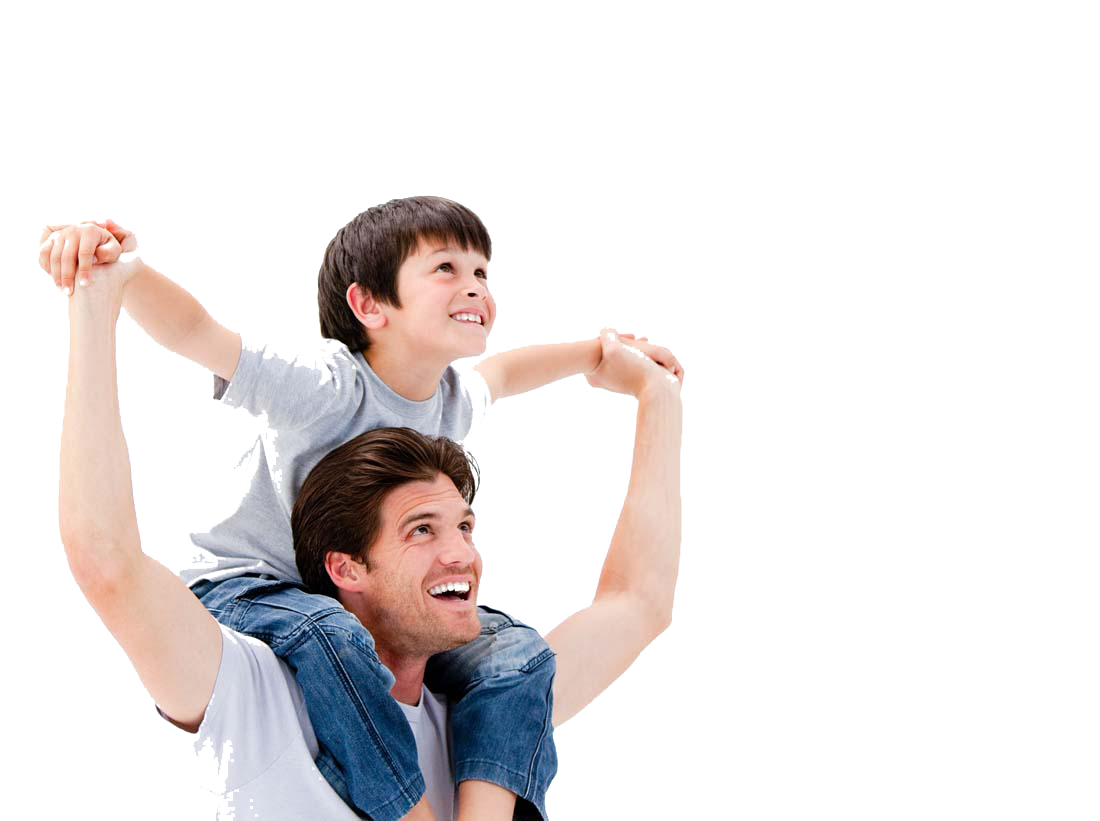
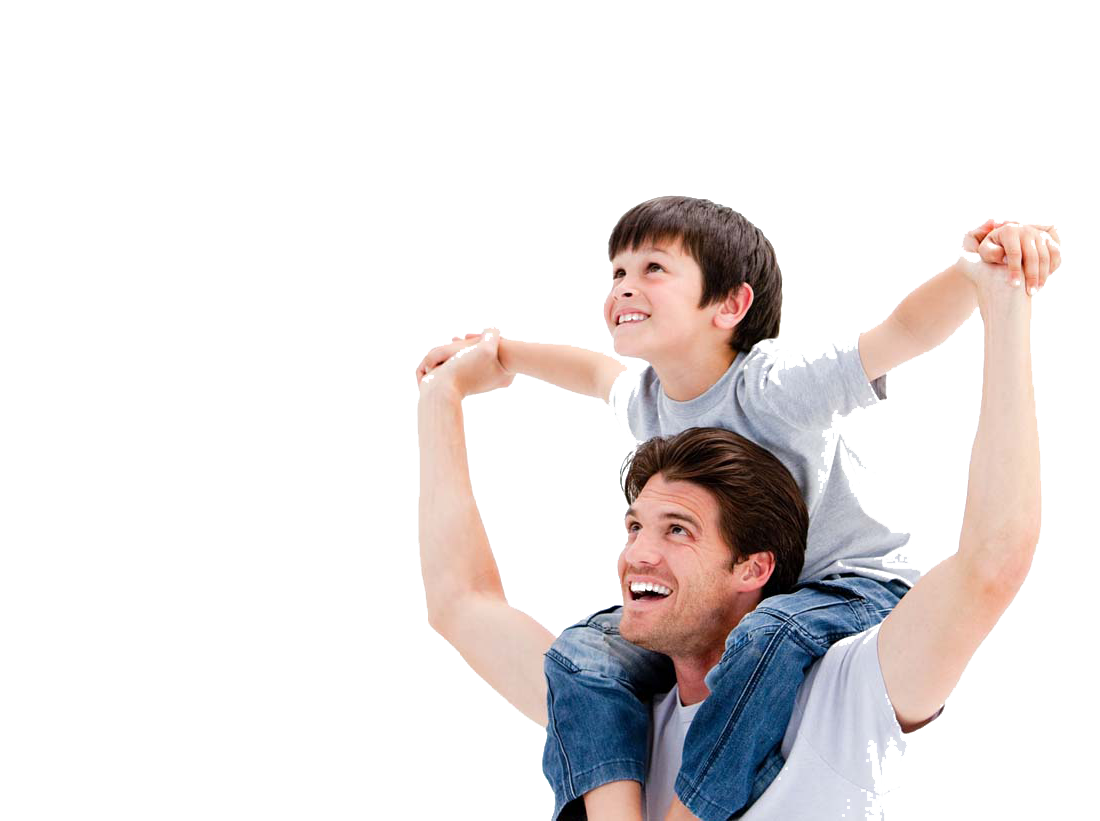
update based on feedback

diff --git a/index.html b/index.html
@@ -46,11 +46,9 @@
 	      <div class="collapse navbar-collapse" id="ftco-nav">
 	        <ul class="navbar-nav ml-auto">
 	          <li class="nav-item active"><a href="#" class="nav-link">Home</a></li>
-	          <li class="nav-item"><a href="#about" class="nav-link">About</a></li>
-	          <li class="nav-item"><a href="#services" class="nav-link">Core Services</a></li>
-	          <!-- <li class="nav-item"><a href="#" class="nav-link">Portfolio</a></li>
-	          <li class="nav-item"><a href="#" class="nav-link">Manufacturing</a></li> -->
-	          <li class="nav-item"><a href="#" class="nav-link">Contact</a></li>
+	          <li class="nav-item"><a href="#about" class="nav-link"><p style="color: white;">About</p></a></li>
+	          <li class="nav-item"><a href="#services" class="nav-link"><p style="color: white;">Core Services</p></a></li>
+	          <li class="nav-item"><a href="#" class="nav-link"><p style="color: white;">Contact</p></a></li>
 	          <li class="nav-item"><div class=""><p class="mb-0"><a href="#project-headers" class="btn btn-primary py-3 px-2 px-md-4">Make an Appointment</a></p></div></li>
 	        </ul>
 	      </div>
@@ -58,17 +56,18 @@
 	  </nav>
     <!-- END nav -->
     
-    <section class="hero-wrap" style="background-image: url('images/banner_design_n1.png');" data-stellar-background-ratio="0.3">
+    <!-- <section class="hero-wrap" style="background-image: url('images/banner_design_n1_n.png');" data-stellar-background-ratio="0.3"> -->
+    <section class="hero-wrap" style="background-image: url('images/banner_design_new.png');" data-stellar-background-ratio="0.3">
       <div class="overlay"></div>
       <div class="container">
-      	<img class="shape-1" src="images/kid_playing.png" alt="" width="250px">
+      	<!-- <img class="shape-1" src="images/father_kid.png" alt="" width="550px;"> -->
         <div class="row no-gutters slider-text align-items-center">
-          <div class="col-md-10 col-lg-7 ftco-animate d-flex align-items-end">
-          	<div class="text" style="background-color: rgba(227, 238, 248, 0.1); padding: 15px;">
-	            <h1 class="mb-4">We are dedicated to providing <span><strong style="color: #009933;">Research-based</strong> <strong style="color:#80aaff;font-weight:bold">Care</strong></span><span style="font-size: 18px;padding-top: 5px"> To children and their families</span></h1>
+          <div class="col-md-12 col-lg-12 ftco-animate d-flex align-items-end">
+          	<div class="text" style="margin: auto;">
+	            <h1 class="mb-4" style="color: white;">Guiding Families & Schools to Feel <br><strong> Fulfilled,</strong> <strong>Purposeful </strong><strong>& Healthy</strong></h1>
 	            
 	            <div class="d-flex meta">
-		            <div class=""><p class="mb-0"><a href="#project-headers" class="btn btn-primary py-3 px-2 px-md-4">Make an Appointment</a></p></div>
+		            <div class="" style="margin: auto;"><p class="mb-0"><a href="#project-headers" class="btn btn-primary py-3 px-2 px-md-4">Make an Appointment</a></p></div>
 		            <!-- <a href="#" class="d-flex align-items-center button-link">
 		            	<div class="button-video d-flex align-items-center justify-content-center">
 			            	<span class="fa fa-play"></span>
@@ -85,25 +84,25 @@
     <section class="ftco-section ftco-no-pb ftco-no-pt bg-primary">
       <div class="container">
         <div class="row d-flex no-gutters">
-          <div class="col-md-3 d-flex align-items-stretch ftco-animate">
+          <div class="col-md-4 d-flex align-items-stretch ftco-animate">
             <div class="media block-6 services services-bg d-block text-center px-4 py-5">
             	<div class="icon d-flex justify-content-center align-items-center"><span class="flaticon-system"></span></div>
               <div class="media-body py-md-4">
-                <h3>Individual Therapy</h3>
-                <p>An individualized approach is necessary in assessing and treating presenting concerns.</p>
+                <h3>Parent & Children’s Groups</h3>
+                <p>An individualized approach is necessary in assessing and treating parenting concerns.</p>
               </div>
             </div>      
           </div>
-          <div class="col-md-3 d-flex align-items-stretch ftco-animate">
+          <div class="col-md-4 d-flex align-items-stretch ftco-animate">
             <div class="media block-6 services services-bg services-darken d-block text-center px-4 py-5">
             	<div class="icon d-flex justify-content-center align-items-center"><span class="flaticon-supervised"></span></div>
               <div class="media-body py-md-4">
-                <h3>School Consults</h3>
+                <h3>School Support</h3>
                 <p>Our clinicians frequently complete school observations and consultations with school staff.</p>
               </div>
             </div>      
           </div>
-          <div class="col-md-3 d-flex align-items-stretch ftco-animate">
+          <!-- <div class="col-md-3 d-flex align-items-stretch ftco-animate">
             <div class="media block-6 services services-bg services-lighten d-block text-center px-4 py-5">
             	<div class="icon d-flex justify-content-center align-items-center"><span class="flaticon-accounting"></span></div>
               <div class="media-body py-md-4">
@@ -111,12 +110,12 @@
                 <p>We encourage collaboration with outside professionals.</p>
               </div>
             </div>      
-          </div>
-          <div class="col-md-3 d-flex align-items-stretch ftco-animate">
+          </div> -->
+          <div class="col-md-4 d-flex align-items-stretch ftco-animate">
             <div class="media block-6 services services-bg d-block text-center px-4 py-5">
             	<div class="icon d-flex justify-content-center align-items-center"><span class="flaticon-blueprint"></span></div>
               <div class="media-body py-md-4">
-                <h3>Family Therapy and Caregiver Training</h3>
+                <h3>Individual & Family Therapy</h3>
                 <p>Caregiver involvement is a primary component to effective treatment.</p>
               </div>
             </div>      
@@ -130,7 +129,7 @@
 				<div class="row">
 					<div class="col-lg-5 order-md-last d-md-flex align-items-stretch">
 						<div class="img w-100 img-2 mr-md-2" style="background:white;">
-							<img class="shape-2" src="images/about_alliance.png" alt="" width="160%" style="padding-top: 10%">
+							<img class="shape-2" src="images/kid_playing.png" alt="" width="100%" style="padding-top: 18%">
 						</div>
 						<!-- <div class="img w-100 img-2 img-overlay ml-md-2 p-4" style="background-image: url(images/cloud_background_n1.png);">
 							<div class="request-quote py-5">
@@ -174,11 +173,13 @@
 						</div> -->
 					</div>
 					<div class="col-lg-7 wrap-about py-md-5 ftco-animate">
-			          <div class="heading-section pr-md-5">
-			            <h1 class="mb-4" style="padding-left: 2%"> <strong style="color:#009933;"> About Alliance</strong></h1>
-			            <h3 class="col-md-10"></h3>
-			            <p class="col-md-10" style="line-height: 1.4em; font-size: 1em;">Alliance Pediatrics' primary goal is to provide high quality, evidence-based treatments and training opportunities to our clients. We believe individualized attention and a collaborative relationship are necessary components of solution-based care.</p>
-			          </div>
+					  <div class="block-7" style="background-color: #f2f2f2;">
+				          <div class="heading-section pr-md-5" style="padding-bottom: 1rem">
+				            <h1 class="mb-4" style="padding-left: 2%"> <strong style="color:#009933;"> About Alliance</strong></h1>
+				            <h3 class="col-md-10"></h3>
+				            <p class="col-md-10" style="line-height: 1.4em; font-size: 1em;">Alliance Pediatrics' primary goal is to provide high quality, evidence-based treatments and training opportunities to our clients. We believe individualized attention and a collaborative relationship are necessary components of solution-based care.</p>
+				          </div>
+				      </div>
 
 			          <div class="pr-md-5" style="padding-top: 10px;">
 			          	<div class="row">
@@ -618,7 +619,7 @@
         <div class="row mb-5">
           <div class="col-md">
             <div class="ftco-footer-widget mb-4">
-              <a class="navbar-brand" href="index.html"><img src="img\logo_n.png" width="230px"></a>
+              <a href="index.html"><img src="img\logo_n.png" width="230px" ></a>
               <!-- <h2 class="ftco-heading-2">ArchLab.</h2> -->
               <br>
               <br>

diff --git a/css/style.css b/css/style.css
@@ -351,15 +351,14 @@ h6, .h6 {
 
 .shape-1 {
     position: absolute;
-    top: 18%;
-    left: 70%;    
+    top: 13%;
+    left: 50%;    
     -webkit-animation: movebounce 4s linear infinite;
     animation: movebounce 4s linear infinite;
 }
 
 .shape-2 {
-    margin-left: auto;
-    margin-right: auto;
+    margin: auto;
     display: block;
     -webkit-animation: movebounce 4s linear infinite;
     animation: movebounce 4s linear infinite;
@@ -3542,7 +3541,7 @@ input[type="button"].btn-block {
   display: inline-block;
   /*padding-top: 0.3125rem;*/
   padding-bottom: 0.3125rem;
-  margin-right: 1rem;
+  margin-left:7.5rem;
   font-size: 1.25rem;
   line-height: inherit;
   white-space: nowrap; }
@@ -7386,7 +7385,7 @@ button.bg-dark:focus {
     padding-top: 3rem !important; }
   .pr-md-5,
   .px-md-5 {
-    padding-right: 3rem !important; }
+    padding-right: 0rem !important; }
   .pb-md-5,
   .py-md-5 {
     padding-bottom: 3rem !important; }
@@ -8361,7 +8360,7 @@ h1, h2, h3, h4, h5,
     left: 0;
     top: 0;
     margin-top: -130px;
-    background: #fff !important;
+    background: #e6e6e6 !important;
     -webkit-box-shadow: 0 0 10px 0 rgba(0, 0, 0, 0.1);
     box-shadow: 0 0 10px 0 rgba(0, 0, 0, 0.1); }
     @media (max-width: 991.98px) {
@@ -8463,26 +8462,30 @@ h1, h2, h3, h4, h5,
       opacity: .1;
       height: 500px; }
     .hero-wrap.hero-wrap-2 .slider-text {
-      height: 500px !important; }
+      height: 500px !important;
+      
+      text-align: center; }
       .hero-wrap.hero-wrap-2 .slider-text h1:after {
         display: none; }
 
 .slider-text {
-  height: 630px; }
+  height: 630px; 
+  
+  text-align: center; }
   .slider-text h1 {
     font-size: 50px;
     color: #000000;
     line-height: 1.2;
     font-weight: 400;
     position: relative; }
-    .slider-text h1:after {
+    /*.slider-text h1:after {
       position: absolute;
       top: -5px;
       left: 5px;
       content: '';
       width: 40px;
       height: 4px;
-      background: #96bb7c; }
+      background: #96bb7c; }*/
     .slider-text h1 span {
       color: #000000;
       display: block; }
